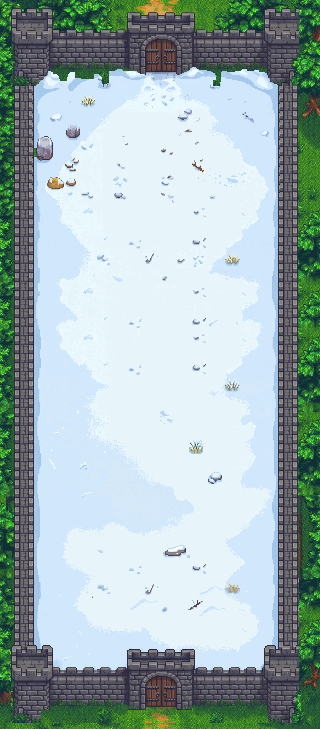
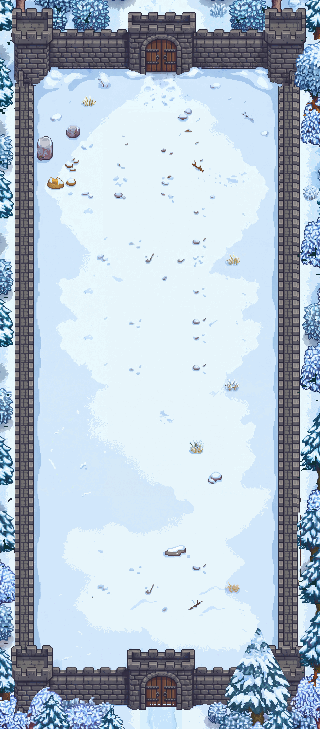
0.4.14: the winter camp's levels 8-10 and the winter fortress with trees in front of the fence and the walls (1057.3 v2, 1057.4 v2)
Claude-Session: https://claude.ai/code/session_01EFZUMqpHps3KDRogHBzjf3

diff --git a/DECISIONS.md b/DECISIONS.md
@@ -3619,6 +3619,14 @@ Rozstrzygnięte najprostszym rozwiązaniem zgodnym z przyjętymi makietami (1044
 
 Symulacje przy sprawdzaniu many (1045) pokazały, że mag na 11.–29. poziomie mdleje na wyprawach w najnowszym miejscu dużo częściej niż inne klasy. Dobrze wyposażony gracz bez towarzyszy, z samą Kulą ognia, mdleje na 15. poziomie w 73% godzinnych wypraw, na 20. w 31%, a na 25. w 13%. Inne klasy mdleją w 0%. Z Osłoną many jest lepiej od 20. poziomu. Autor odrzucił wszystkie warianty (bez zmian, Arkanowa bariera do 29. poziomu, lepsza regeneracja): „nie ulepszamy maga jest określony jako klasa z trudniejszym startem”. Mag zostaje klasą z trudniejszym startem.
 
+## Wersja 0.4.14 (17.11.2026): zimowy Obóz 8–10 i zimowa Warownia (ukryte do 1.12)
+
+1. **Zimowy Obóz 8–10 i Warownia z drzewami przed płotem i murem (1057.3 v2 i 1057.4 v2, przyjęte).** Autor przy pierwszych wersjach: „uciete drzewa, ktore powinny nachodzić na płot” i „uciete drzewa, które powiny nachodzić na mury, do poprawy”, a przy poprawkach „ucięte, niech przysłania cały płot” i „to samo”.
+   - PixelLab domalował drzewa w stożkach i kopułach sięgających ponad płot i mur (maski w `art/inputs/winter/`), więc korony nie kończą się już równo na płocie ani na murze. Choinka przed płotem Obozu zasłania go na całej wysokości, a czubek wystaje ponad płot.
+   - Ścieżki pod bramami są z ubitego śniegu, bez pomarańczowych resztek piasku.
+   - W grze: `src/client/art/board-winter/camp-3.png`, `board-tall-winter/camp-3.png` i `board-fortress-winter/fortress.png`. Jak cały zimowy Obóz, plansze widać dopiero od 1 grudnia.
+2. **Zimowe stroje: portrety w grze, bez sprzedaży.** Dziesięć zimowych portretów (`skin-winter-<klasa>-<płeć>` w `src/client/art/portraits/`) ma już osiem odcieni skóry. Maski skóry (`tools/evolution-tones.json`, piksel po pikselu) obejmują twarz, uszy i gołe dłonie, bez brwi, wąsów i pasm włosów. Sprawdzone w odcieniu szarym, ciemnym i bladym. Strojów nie ma jeszcze w sklepie: czekają na jeźdźców i odcienie chodów (zasada z CLAUDE.md o pełnej grafice).
+
 ## Wersja 0.4.13 (17.11.2026): zadanie dnia na zlecenia i podpowiedzi według ewolucji
 
 1. **Zadanie dnia „Wykonaj zlecenia w Osadzie” tylko na zlecenia, które czekają.** Autor: „Dalej po przelosowaniu zadań potrafi dać "Wykonaj 2 zlecenia w Osadzie"”.
